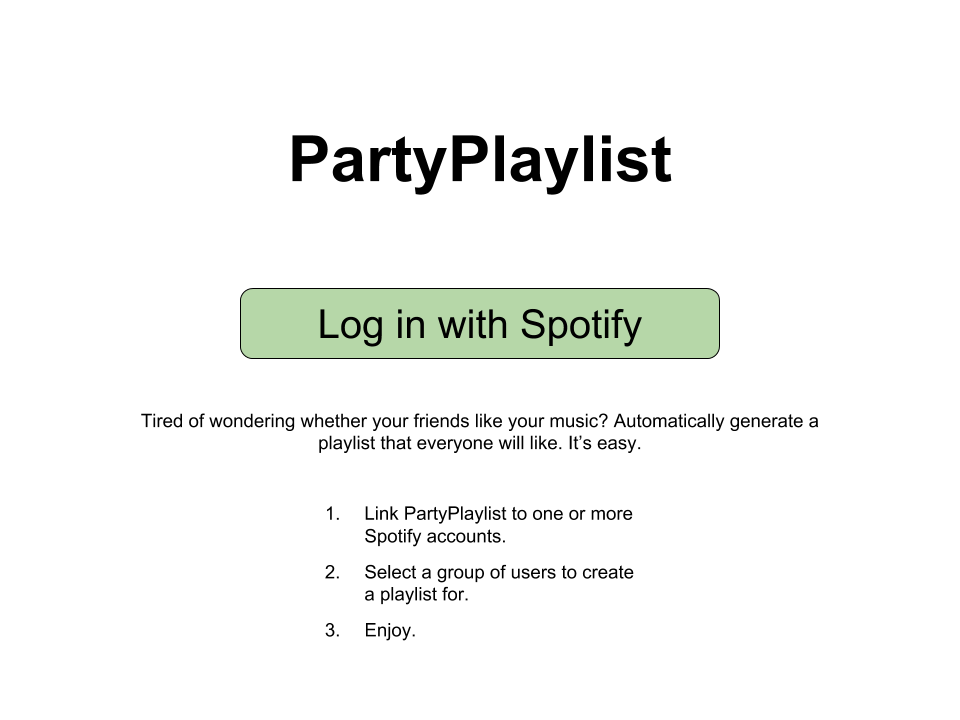
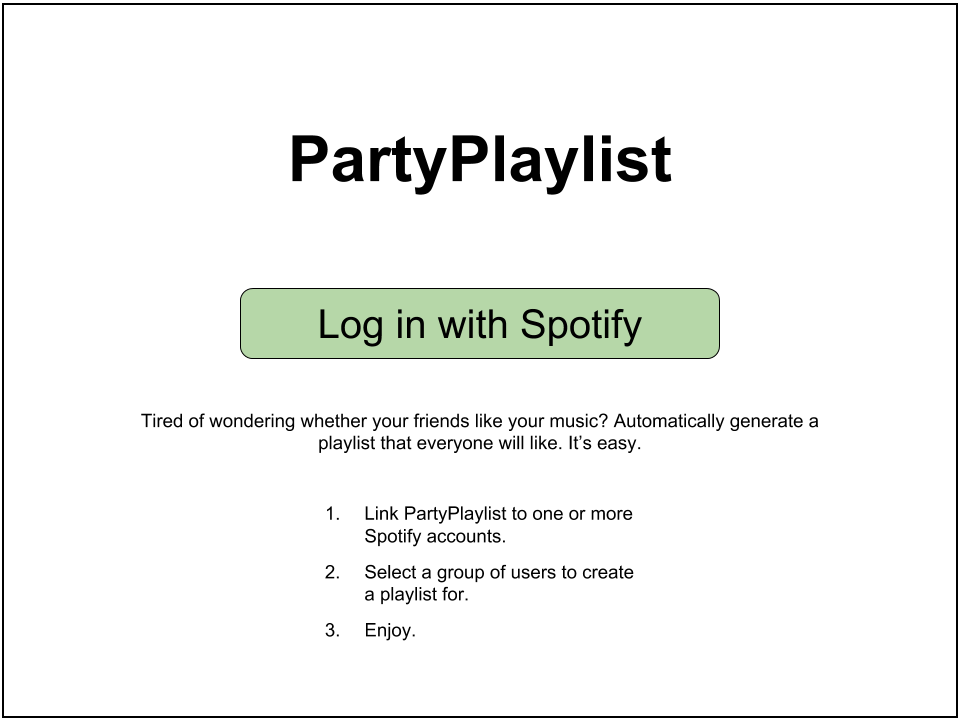
Added borders to desktop wireframes for readme

Changed region(s): [[0.0, 0.9778, 1.0, 1.0], [0.9688, 0.0, 1.0, 0.0306], [0.0, 0.0, 0.0312, 0.0306]]

diff --git a/README.md b/README.md
@@ -32,7 +32,8 @@ The app uses Spotify OAuth for login, and automatically detects whether the user
 
 #### Playlists Page
 This view shows the user a full list of the playlists they've created with the app.
-![alt text](/readme-images/wireframe-favorites.png "Favorites Wireframe")
+![alt text](/readme-images/playlists.png "Playlists")
+![alt text](/readme-images/playlists-mobile.png "Mobile playlists")
 
 #### Further Wireframes
 If you'd like to view the full set of frames used for the construction of this app, take a look at this [Google presentation](https://docs.google.com/presentation/d/18Dq2nJO0eImqZkxXiXRSWnaHD_h1VhhrIk2fwR2aTv8/).
